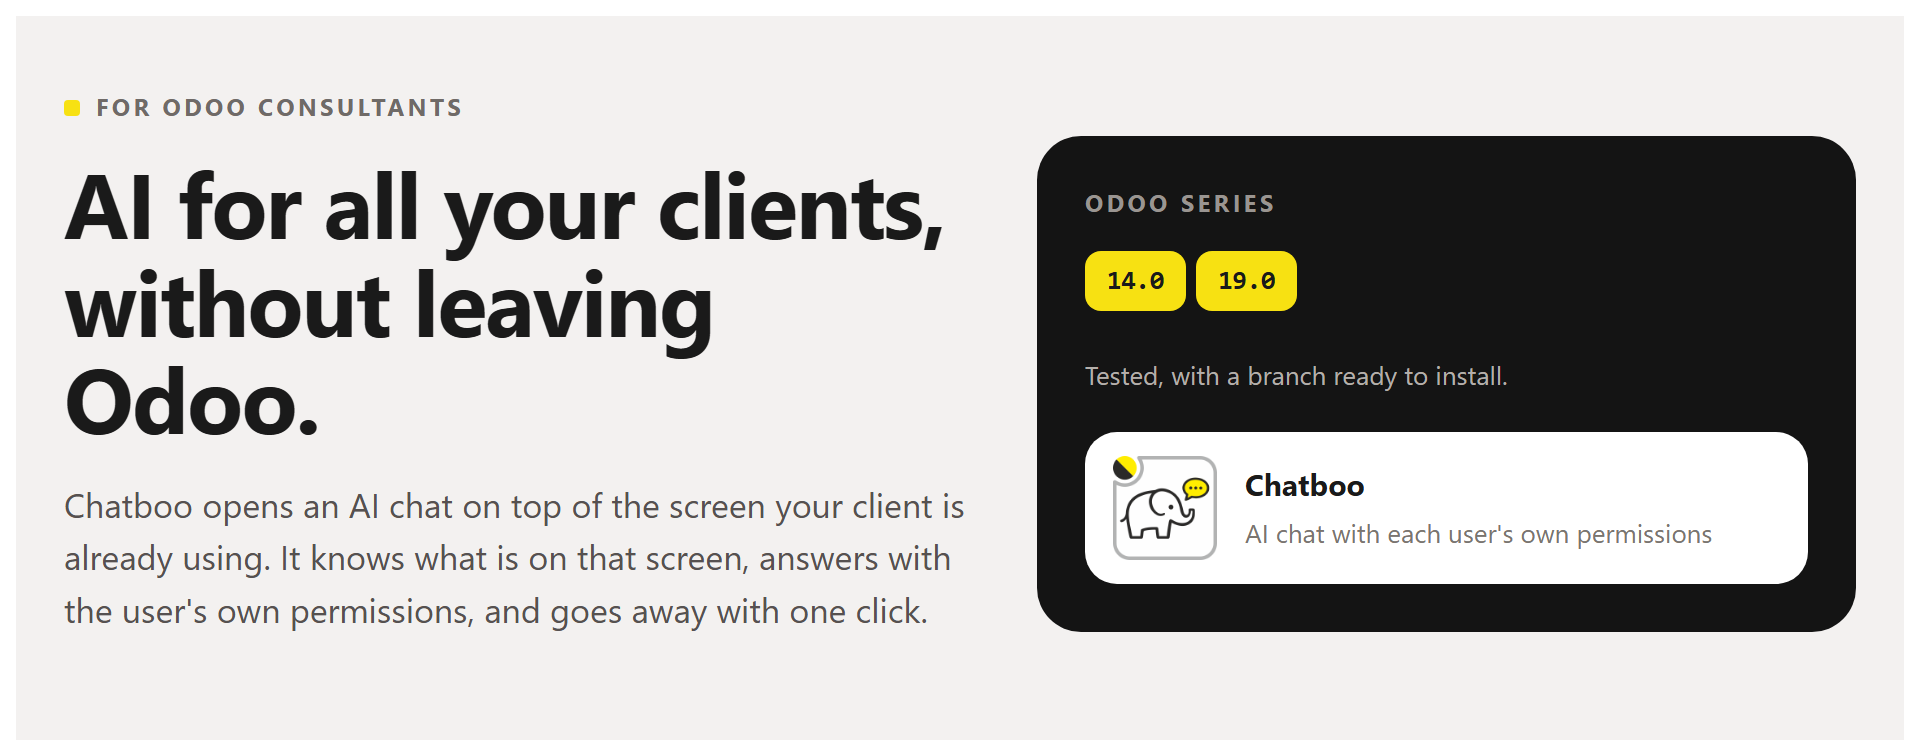
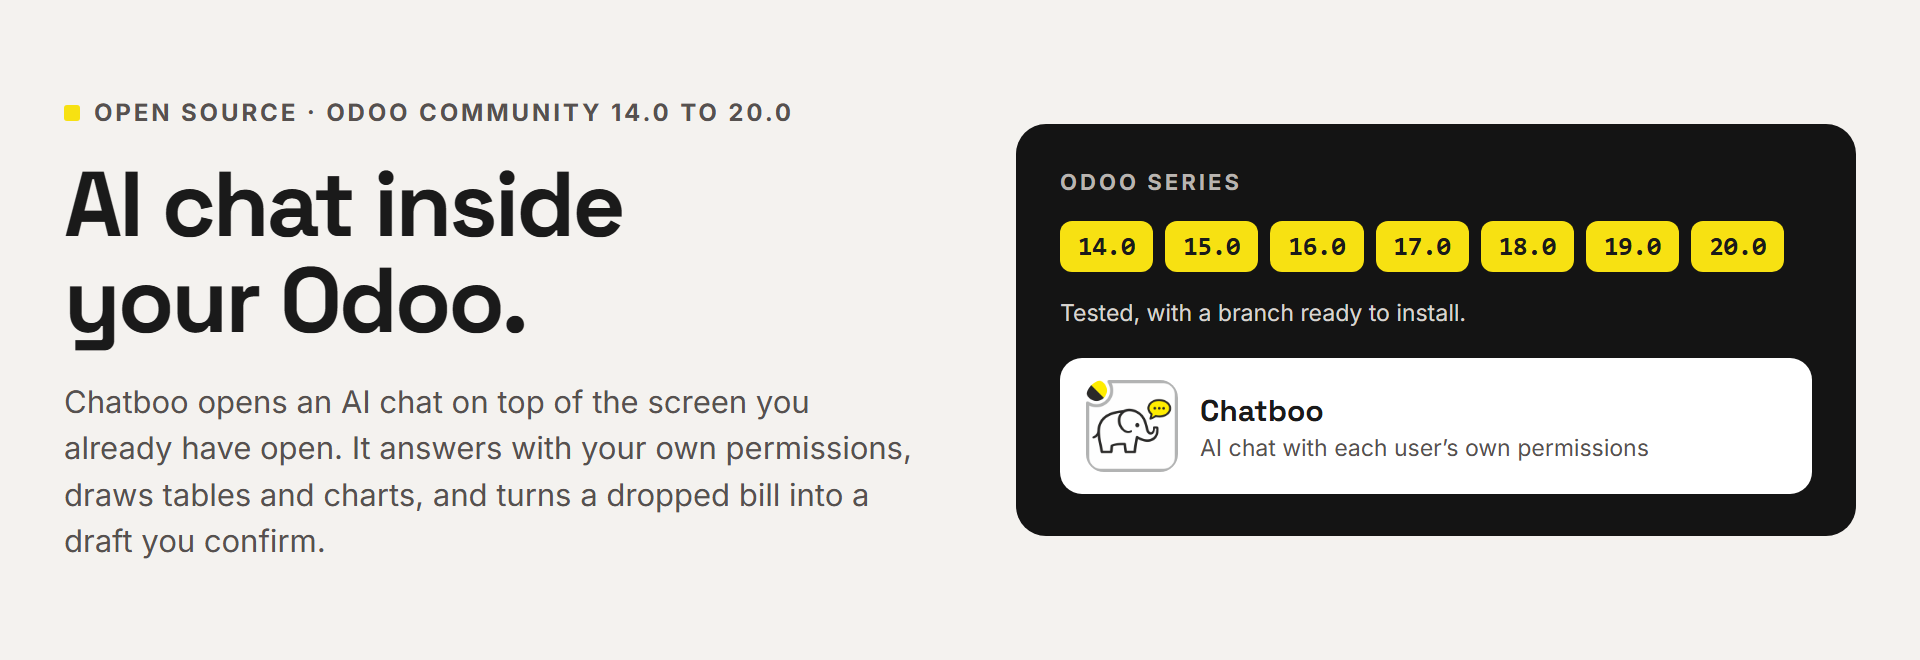
pns_ai_chatboo owl1 2.1.587 · owl2 2.1.587 · owl3 2.1.587
- Banners (Apps store, README and site) show the seven supported series, 14.0 to 20.0; the old ones still said 14 and 19. Images only.

diff --git a/stacks/owl1/pns_ai_chatboo/__manifest__.py b/stacks/owl1/pns_ai_chatboo/__manifest__.py
@@ -4,7 +4,7 @@
 # Odoo reads this file with ast.literal_eval — no module docstring before `{`.
 {
     'name': 'Chatboo — AI Chat Assistant',
-    'version': '2.1.586',
+    'version': '2.1.587',
     'category': 'Productivity',
     'summary': 'Open-source AI chatbot for Odoo Community 14 to 20: ask about your records in plain words with OpenAI, Claude or Ollama, and get tables, charts, PDF or Excel. Each user sees only what they may see.',
     'description': """

diff --git a/stacks/owl2/pns_ai_chatboo/__manifest__.py b/stacks/owl2/pns_ai_chatboo/__manifest__.py
@@ -4,7 +4,7 @@
 # Odoo reads this file with ast.literal_eval — no module docstring before `{`.
 {
     'name': 'Chatboo — AI Chat Assistant',
-    'version': '2.1.586',
+    'version': '2.1.587',
     'category': 'Productivity',
     'summary': 'Open-source AI chatbot for Odoo Community 14 to 20: ask about your records in plain words with OpenAI, Claude or Ollama, and get tables, charts, PDF or Excel. Each user sees only what they may see.',
     'description': """

diff --git a/stacks/owl3/pns_ai_chatboo/__manifest__.py b/stacks/owl3/pns_ai_chatboo/__manifest__.py
@@ -4,7 +4,7 @@
 # Odoo reads this file with ast.literal_eval — no module docstring before `{`.
 {
     'name': 'Chatboo — AI Chat Assistant',
-    'version': '2.1.586',
+    'version': '2.1.587',
     'category': 'Productivity',
     'summary': 'Open-source AI chatbot for Odoo Community 14 to 20: ask about your records in plain words with OpenAI, Claude or Ollama, and get tables, charts, PDF or Excel. Each user sees only what they may see.',
     'description': """

diff --git a/stacks/owl1/pns_ai_chatboo/__manifest_o15__.py b/stacks/owl1/pns_ai_chatboo/__manifest_o15__.py
@@ -7,7 +7,7 @@
 # template to inherit. The rest matches __manifest__.py.
 {
     'name': 'Chatboo — AI Chat Assistant',
-    'version': '2.1.586',
+    'version': '2.1.587',
     'category': 'Productivity',
     'summary': 'Open-source AI chatbot for Odoo Community 14 to 20: ask about your records in plain words with OpenAI, Claude or Ollama, and get tables, charts, PDF or Excel. Each user sees only what they may see.',
     'description': """

diff --git a/CHANGELOG.md b/CHANGELOG.md
@@ -2,6 +2,10 @@
 
 What changes for people who use this module, one section per published version, newest first. The heading is the git tag.
 
+## owl1-2.1.587_owl2-2.1.587_owl3-2.1.587 (2026-11-09)
+
+- Banners (Apps store, README and site) show the seven supported series, 14.0 to 20.0; the old ones still said 14 and 19. Images only.
+
 ## owl1-2.1.586_owl2-2.1.586_owl3-2.1.586 (2026-11-09)
 
 - README only: the vendor-bills section describes what Chatboo does on Odoo Community 14.0 to 20.0 with your own provider, without comparing with other products.
